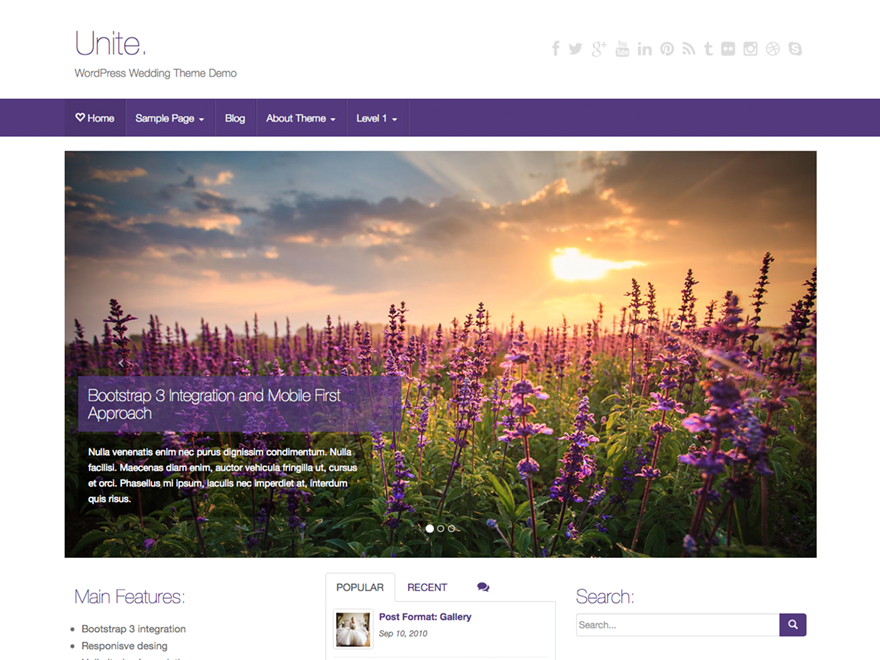
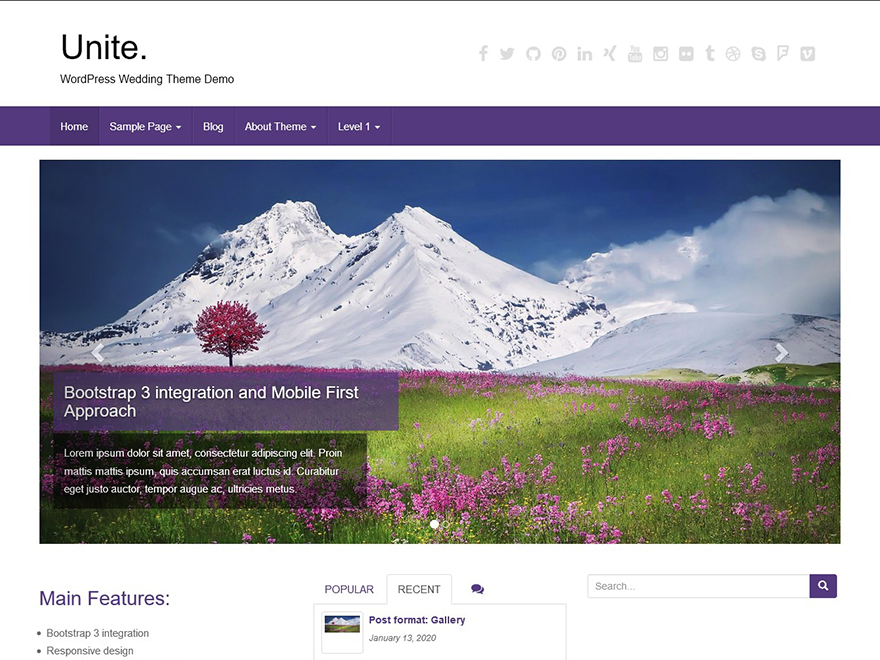
update screenshot / update included images / further removed google plus

diff --git a/inc/socialnav.php b/inc/socialnav.php
@@ -81,10 +81,6 @@ function unite_social_css(){ ?>
         .fa-pinterest:before {
             content: "\f0d2"
         }
-        #social li a[href*="plus.google.com"] .fa:before,
-        .fa-google-plus:before {
-            content: "\f0d5"
-        }
         #social li a[href*="linkedin.com"] .fa:before,
         .fa-linkedin:before {
             content: "\f0e1"
@@ -137,7 +133,6 @@ function unite_social_css(){ ?>
         
         .social-icons li a[href*="facebook.com"]:hover {color: #3b5998 !important;}
         .social-icons li a[href*="twitter.com"]:hover {color: #00aced !important;}
-        .social-icons li a[href*="plus.google.com"]:hover {color: #dd4b39 !important;}
         .social-icons li a[href*="youtube.com"]:hover {color: #bb0000 !important;}
         .social-icons li a[href*="github.com"]:hover {color: #4183C4 !important;}
         .social-icons li a[href*="linkedin.com"]:hover {color: #007bb6 !important;}
